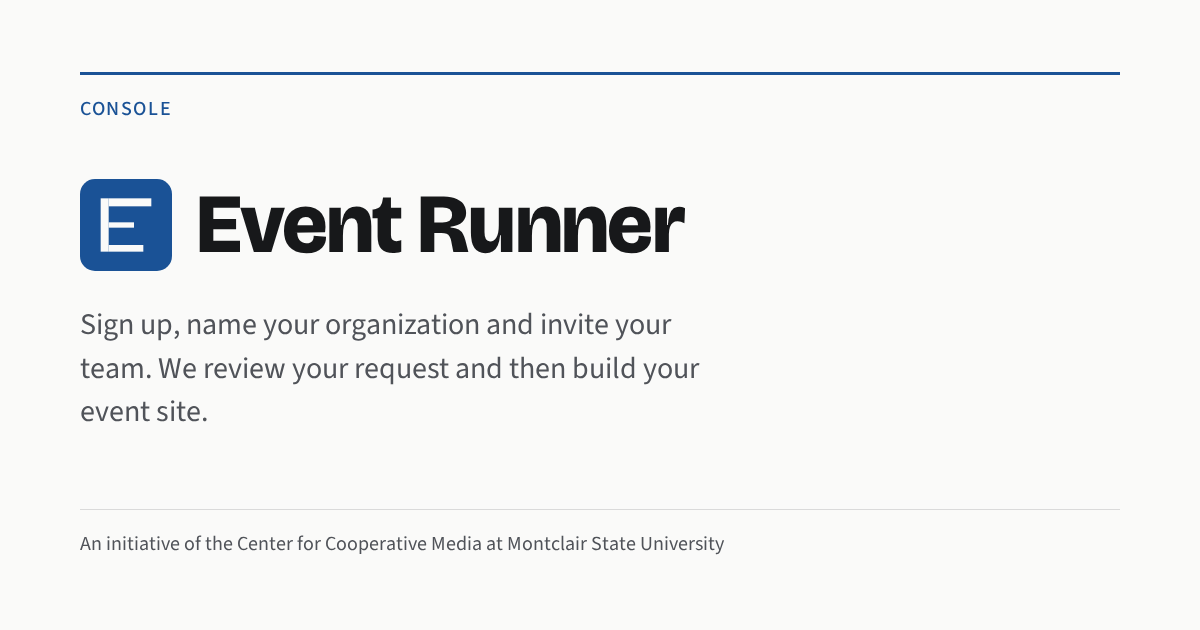
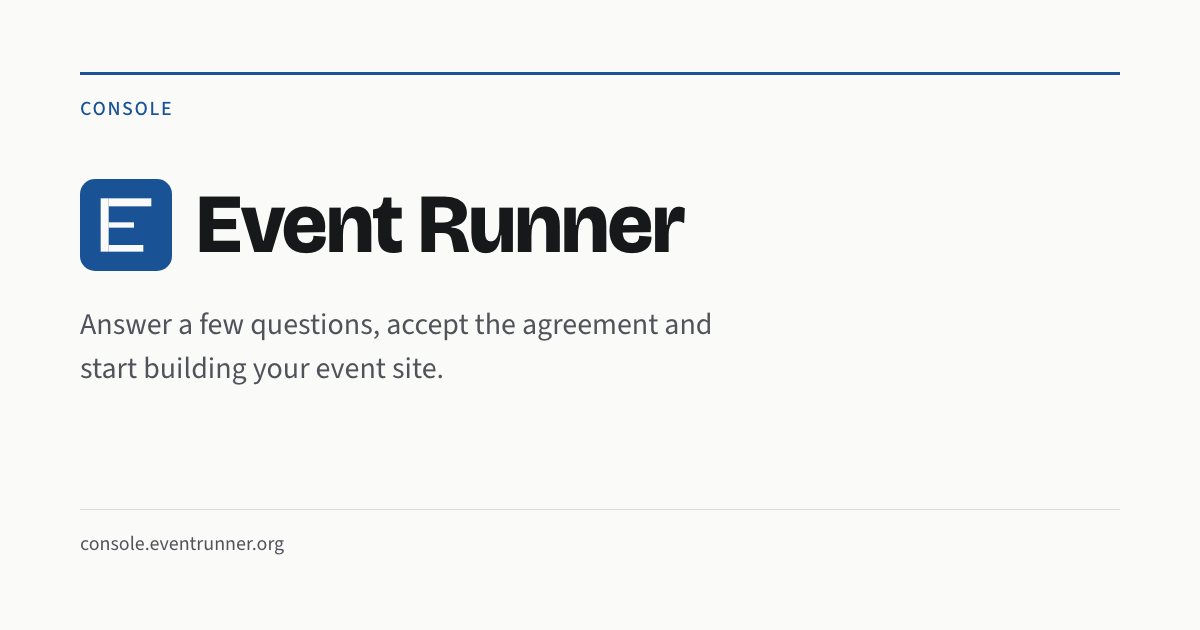
Stop hashing ticket secrets and fix the console's sharing copy
The record of what a deploy has seen hashed the ticket token and webhook
signing secret. Compare Secret Manager version stamps instead, which hold no
part of either value and still change when a secret is replaced or remade.

The console's description and sharing card still promised a review that no
longer exists. They now describe the signup link path.

diff --git a/console/web/index.html b/console/web/index.html
@@ -4,7 +4,7 @@
     <meta charset="utf-8" />
     <meta name="viewport" content="width=device-width, initial-scale=1" />
     <title>Event Runner console | Set up your event site</title>
-    <meta name="description" content="Sign up, name your organization and invite your team. The Center for Cooperative Media reviews each request and then builds your event site." />
+    <meta name="description" content="Use your signup link to answer a few questions, accept the agreement and start building your event site." />
     <meta name="robots" content="noindex" />
     <meta name="color-scheme" content="light dark" />
     <link rel="icon" type="image/svg+xml" href="/favicon.svg" />
@@ -12,7 +12,7 @@
     <meta property="og:type" content="website" />
     <meta property="og:site_name" content="Event Runner" />
     <meta property="og:title" content="Event Runner console | Set up your event site" />
-    <meta property="og:description" content="Sign up, name your organization and invite your team. The Center for Cooperative Media reviews each request and then builds your event site." />
+    <meta property="og:description" content="Use your signup link to answer a few questions, accept the agreement and start building your event site." />
     <meta property="og:url" content="https://console.eventrunner.org/" />
     <meta property="og:image" content="https://console.eventrunner.org/og-console.png" />
     <meta property="og:image:type" content="image/png" />
@@ -21,7 +21,7 @@
     <meta property="og:image:alt" content="Event Runner console: set up your event site" />
     <meta name="twitter:card" content="summary_large_image" />
     <meta name="twitter:title" content="Event Runner console | Set up your event site" />
-    <meta name="twitter:description" content="Sign up, name your organization and invite your team. The Center for Cooperative Media reviews each request and then builds your event site." />
+    <meta name="twitter:description" content="Use your signup link to answer a few questions, accept the agreement and start building your event site." />
     <meta name="twitter:image" content="https://console.eventrunner.org/og-console.png" />
     <meta name="twitter:image:alt" content="Event Runner console: set up your event site" />
   </head>

diff --git a/console/web/src/meta.test.js b/console/web/src/meta.test.js
@@ -14,7 +14,7 @@ const meta = (selector) => doc.head.querySelector(selector)?.getAttribute('conte
 describe('index.html', () => {
   it('has a title, a description and the console favicon', () => {
     expect(doc.title).toBe('Event Runner console | Set up your event site');
-    expect(meta('meta[name="description"]')).toMatch(/invite your team/);
+    expect(meta('meta[name="description"]')).toMatch(/signup link/);
     expect(doc.head.querySelector('link[rel="icon"]').getAttribute('href')).toBe('/favicon.svg');
     expect(doc.head.querySelector('link[rel="icon"]').getAttribute('type')).toBe('image/svg+xml');
     expect(doc.documentElement.getAttribute('lang')).toBe('en');
